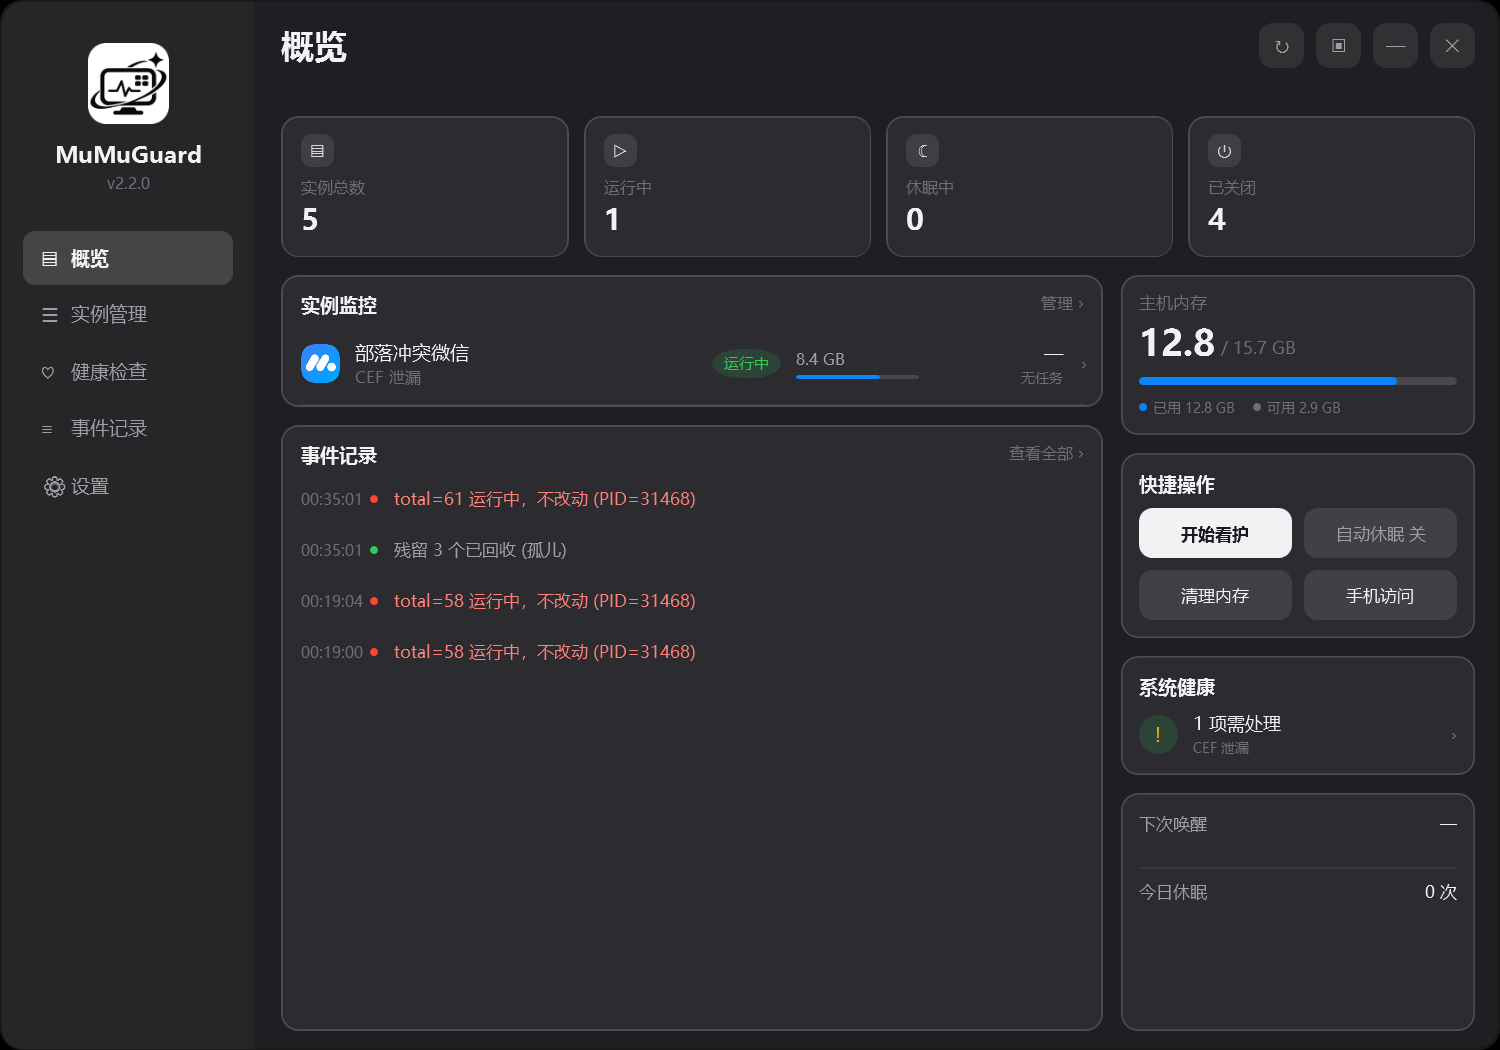
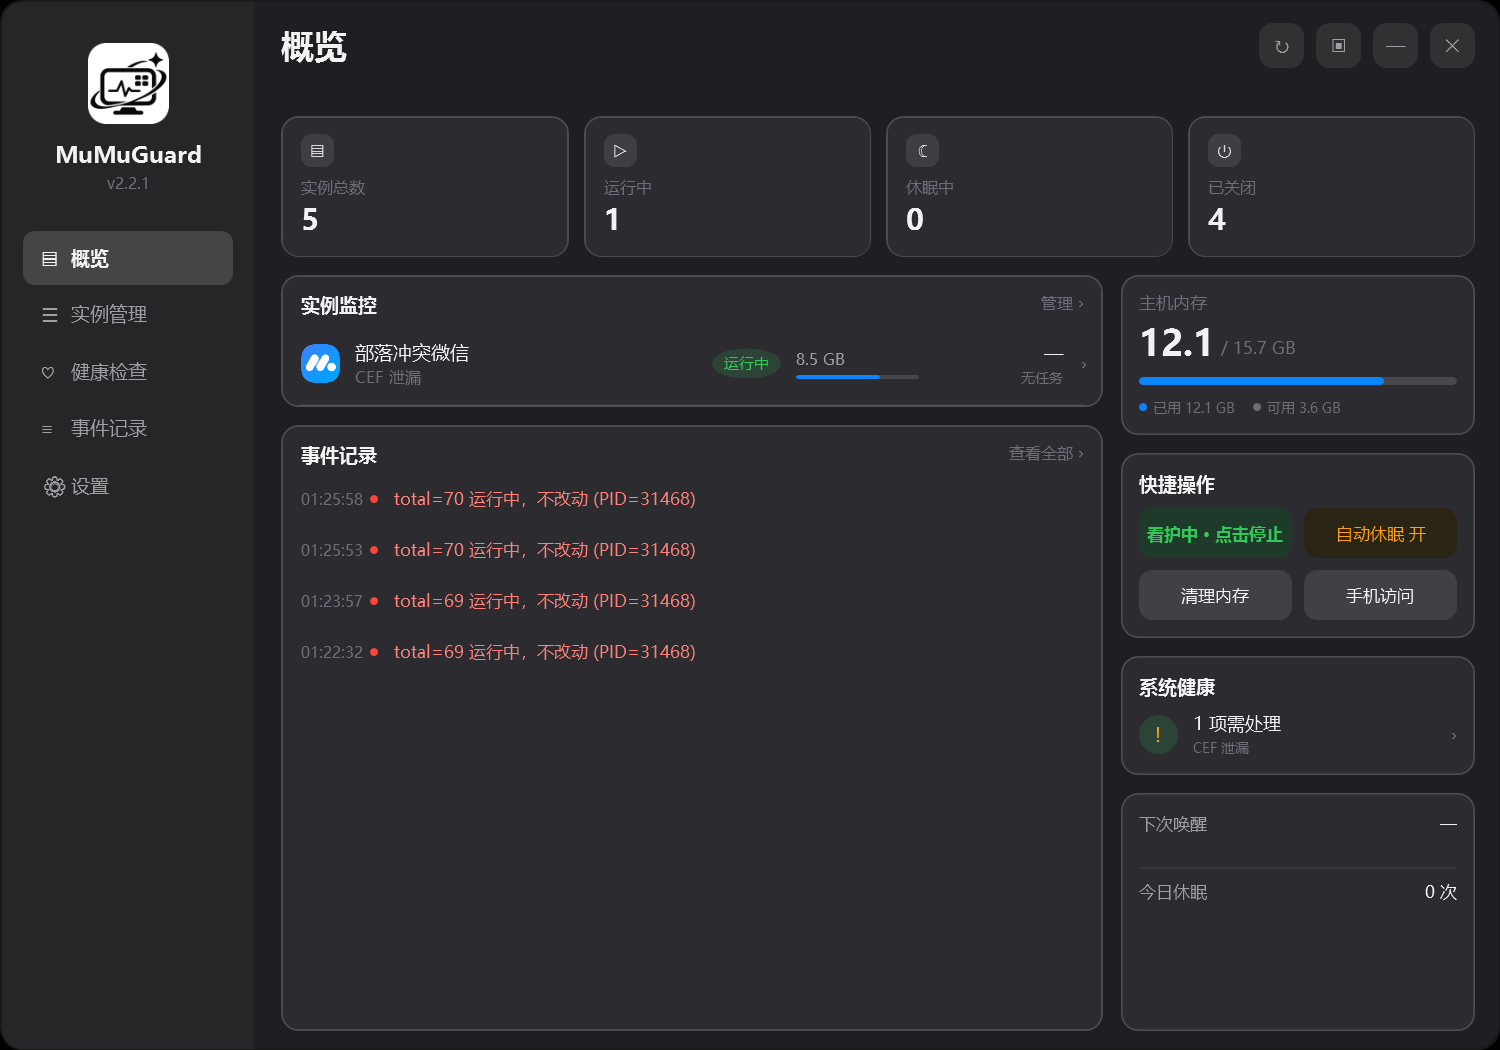
修复误点预设覆盖配置（2.2.1）：移除「启动后操作」里的内置 xxYun 预设按钮，避免误点直接覆盖用户已配好的实例钩子。
现在对话框只保留：自动启动应用 / 启动后命令 / 启动后脚本 / 延迟 / 立即执行 / 状态，配置完全由用户填写；已配置的实例（如国际服）不受影响。

同时：默认公告内容改为 2.2.1「修复了一些问题」；冒烟测试增加不弹公告开关与窗口尺寸重试，避免版更公告窗口导致误判；删除 tools 里旧的 xxYun 脚本。

验证：84 条单测全过；exe 自检 35 项全过（窗口 1500x1050）；实例1 钩子保持外星仔自动加速脚本。

diff --git a/README.md b/README.md
@@ -4,7 +4,7 @@
 
 盯着每个实例，掉线自动拉起，等升级时休眠省内存，醒来自动接着跑。
 
-![版本](https://img.shields.io/badge/version-2.2.0-3DDC84)
+![版本](https://img.shields.io/badge/version-2.2.1-3DDC84)
 ![平台](https://img.shields.io/badge/platform-Windows%2010%20%7C%2011-0A0D14)
 ![许可](https://img.shields.io/badge/license-MIT-blue)
 ![QQ 群](https://img.shields.io/badge/QQ%E7%BE%A4-1128379535-12B7F5)
@@ -23,6 +23,10 @@ MuMuGuard 是给 MuMu 模拟器多开用的看护面板，运行在 Windows 10 /
 
 ---
 
+## 2.2.1 更新了什么
+
+- **修复了一些问题**。
+- 移除了「启动后操作」里的内置 xxYun 预设按钮：之前误点会覆盖已有配置；现在只保留自动启动应用 / 命令 / 脚本三项，自己按需填写。
 ## 2.2.0 更新了什么
 
 - **新增：实例启动后自动操作（实验，默认关闭）**。在实例详情页点「启动后操作」即可配置：安卓启动完成后自动启动指定应用、执行 adb 命令、或运行 PowerShell 脚本。
